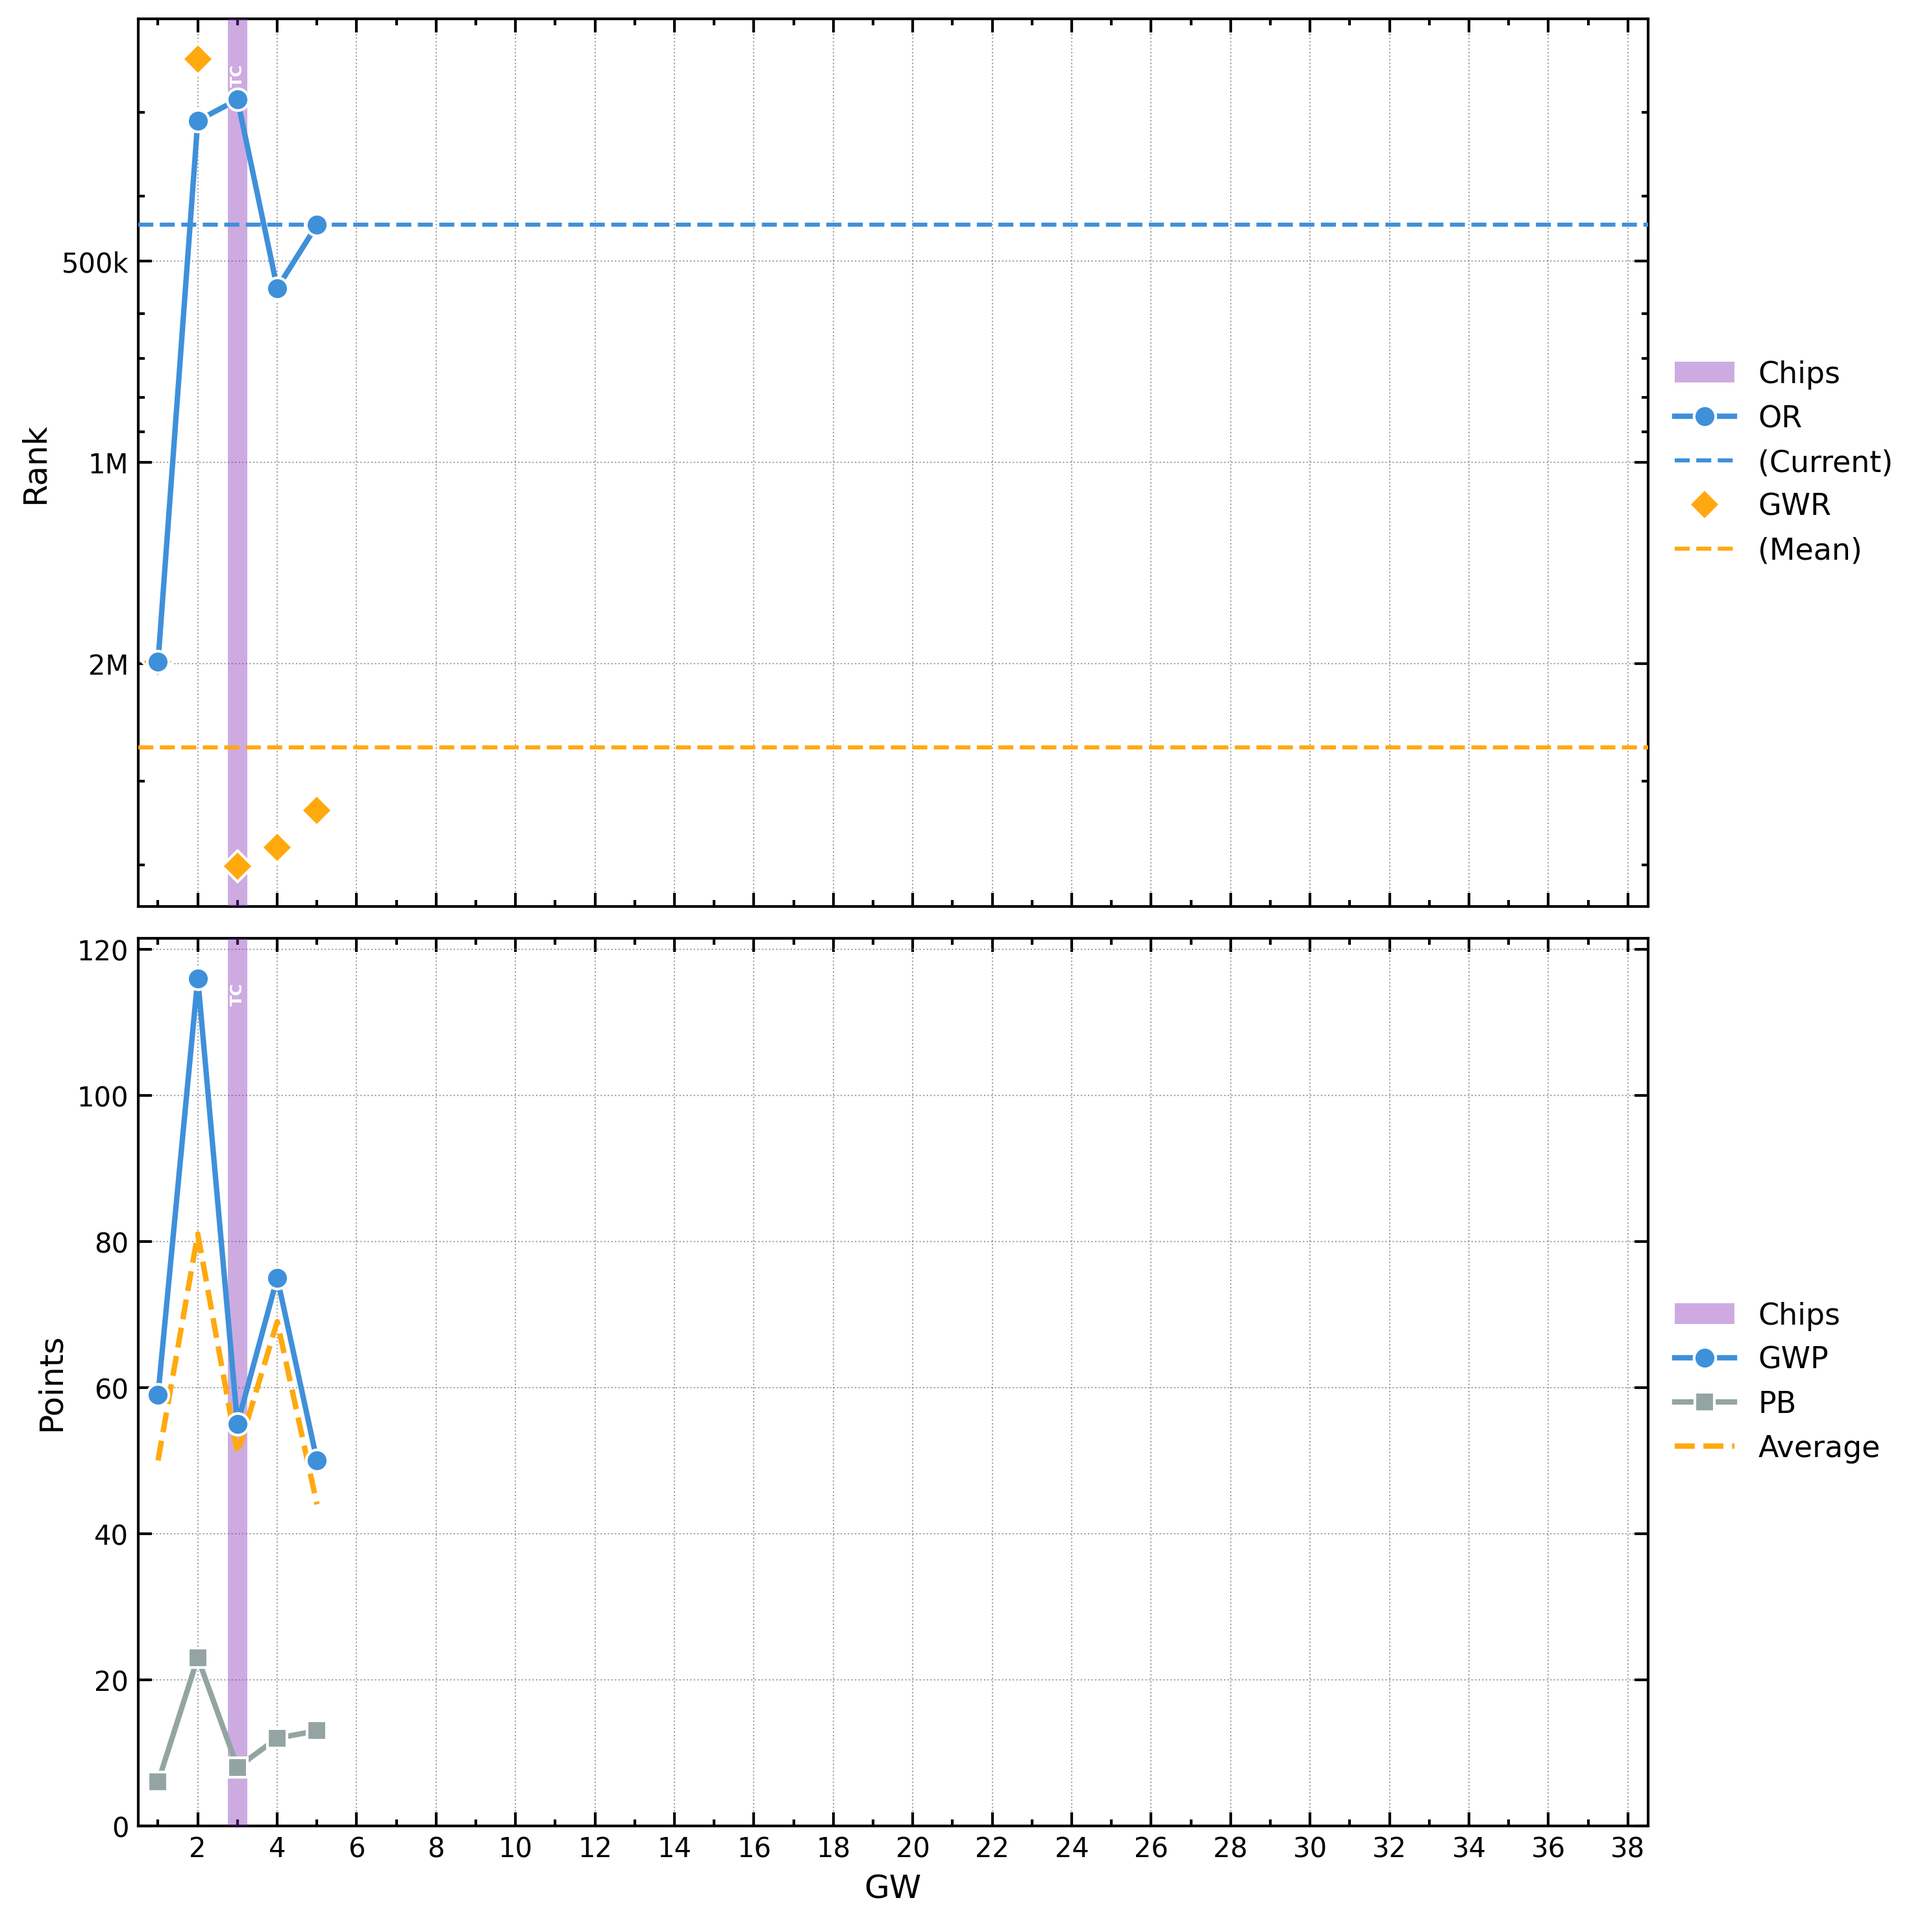
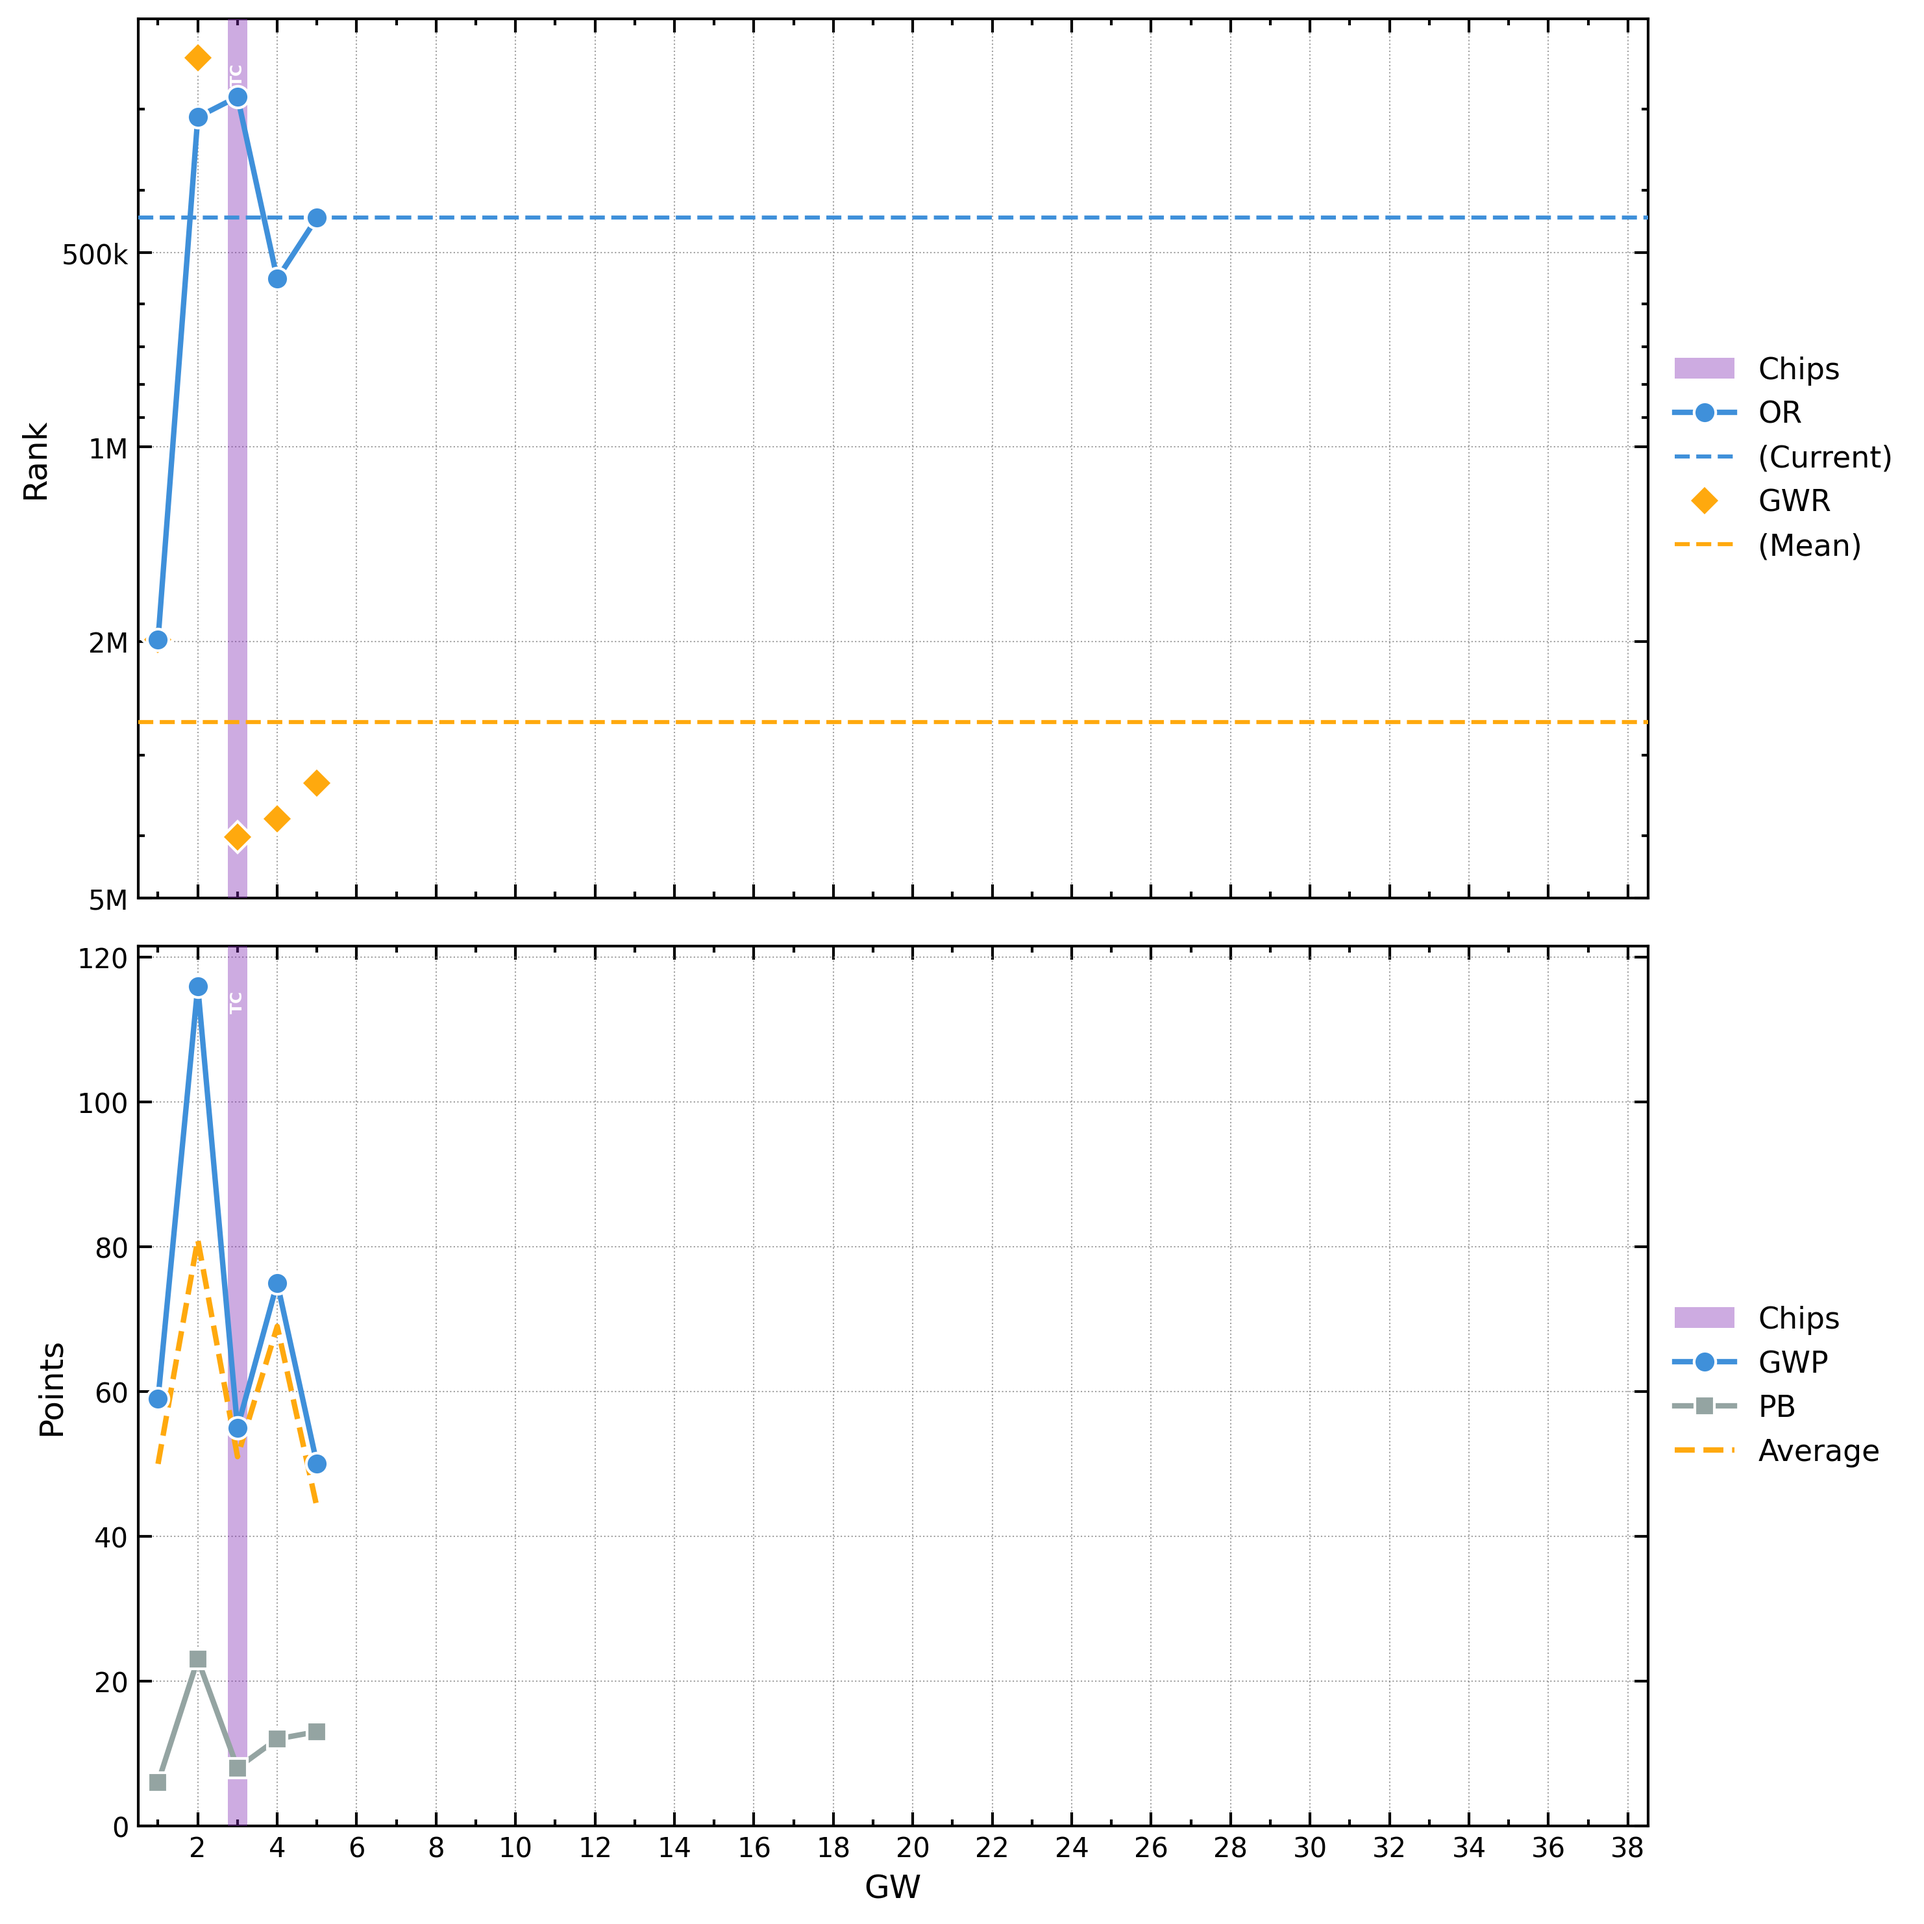
Round rank axis cap to the nearest nice tick instead of raw autoscale
matplotlib's default log-scale margin left the axis bottom at an
arbitrary value like 9.09M, which landed between the 5M and 10M
ticks and clipped the 10M label out of view. Now the bound is
rounded up to the next 1/2/5-per-decade tick (still capped at 10M),
so the axis edge always lands on a labeled gridline.

Claude-Session: https://claude.ai/code/session_01XA91YR1Gj6eRh5VAtAL1CS

diff --git a/visualize.py b/visualize.py
@@ -110,6 +110,18 @@ def load_fpl_data(csv_path):
     return data
 
 
+def next_nice_rank_bound(value, cap=1e7):
+    """Round value up to the next 1/2/5 * 10^n tick, capped at `cap`."""
+    value = min(value, cap)
+    exponent = int(np.floor(np.log10(value))) - 1
+    while True:
+        for m in (1, 2, 5):
+            candidate = m * (10.0**exponent)
+            if candidate >= value:
+                return min(candidate, cap)
+        exponent += 1
+
+
 def format_rank(value, pos):
     """Format rank values as 10M, 1M, 100k, 10k."""
     if value >= 1e7:
@@ -425,9 +437,11 @@ def plot_rank_evolution(csv_path, ax=None):
     ax.set_yscale("log")
     ax.invert_yaxis()  # Invert so better ranks (lower values) are at the top
 
-    # Cap the worst-rank end of the axis at 10M, even if actual data is worse
-    bottom, top = ax.get_ylim()
-    ax.set_ylim(min(bottom, 1e7), top)
+    # Cap the worst-rank end of the axis at the next nice tick, max 10M
+    worst_rank = max(data["or_vals"] + [g for g in data["gwr"] if g is not None])
+    bottom = next_nice_rank_bound(worst_rank, cap=1e7)
+    _, top = ax.get_ylim()
+    ax.set_ylim(bottom, top)
 
     # Set x-axis limits and ticks
     ax.set_xlim(0.5, 38.5)
